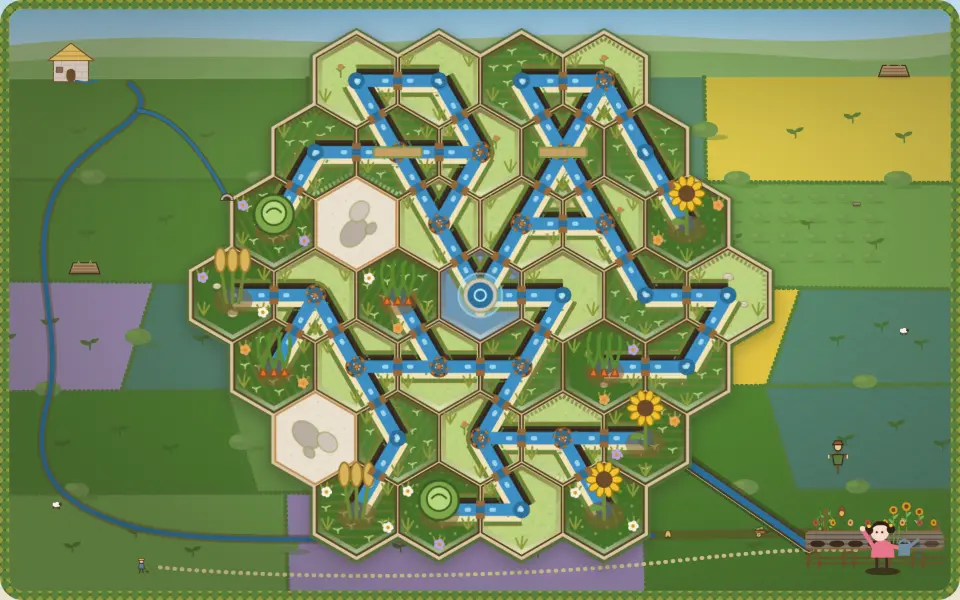
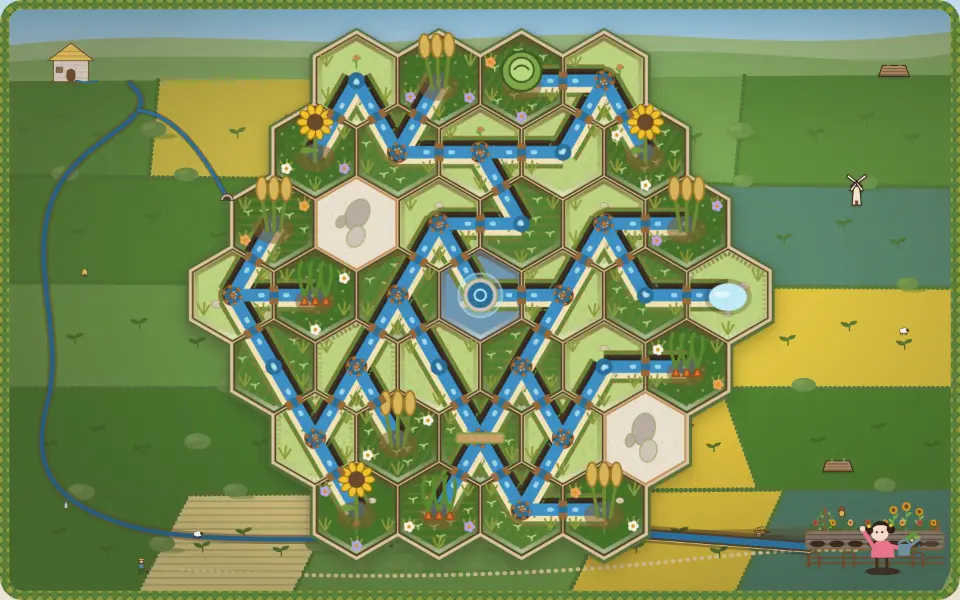
Runnel phone day scheme: the dry valley warmed toward golden straw and no longer drained by its filter; Runnel key art re-shot (plan item 741 slice 4)
Claude-Session: https://claude.ai/code/session_01SimvMNcRCewNZkC5Kd34iw

diff --git a/games/runnel/src/styles.css b/games/runnel/src/styles.css
@@ -5187,6 +5187,15 @@ body[data-mode='sunday'] .rail > .cal-title:first-of-type {
 @media (min-width: 1100px) and (min-height: 640px) and (prefers-color-scheme: light) {
   .stage:not(:has(.board.won)) .valley { --vk: 78%; filter: saturate(1.2) brightness(.9); }
 }
+/* ...and on a phone (whose valley never receded) the same warm straw under the dry board, its filter no longer
+   draining it (the filter was already there, so a new value costs no extra paint) */
+@media (max-width: 600px) and (orientation: portrait) and (min-height: 700px) and (prefers-color-scheme: light) {
+  .stage:not(:has(.board.won)) .valley {
+    --vk: 85%;
+    --vk-to: color-mix(in srgb, var(--dry-field) 45%, var(--sky-golden));
+    filter: saturate(1.15) brightness(.92);
+  }
+}
 @media (min-width: 1100px) and (min-height: 640px) and (prefers-color-scheme: dark) {
   .stage:not(:has(.board.won)) .valley { --vk: 22%; --vk-to: var(--paper); }
   .stage:not(:has(.board.won)) .vl-focus-out { stop-color: var(--bank-shade); }
